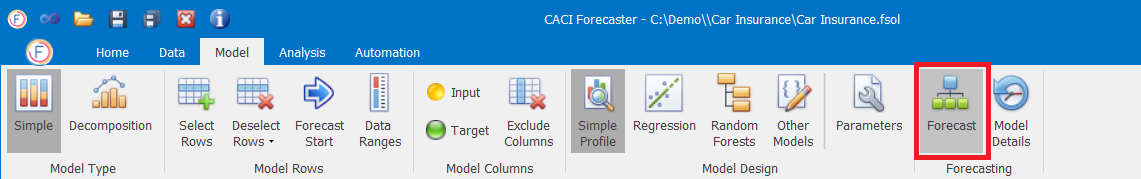
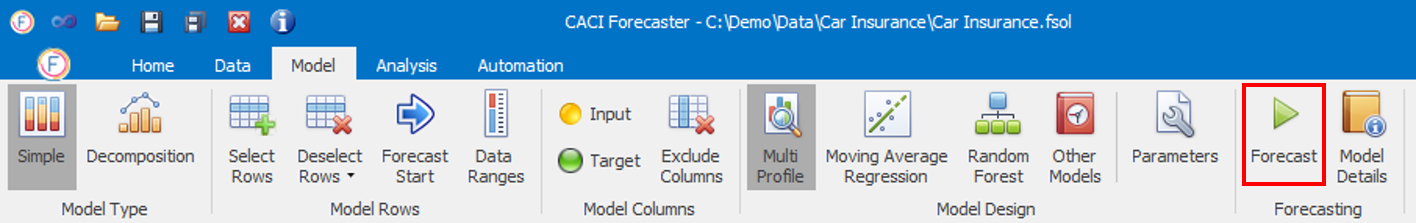
All images updated to latest version

diff --git a/reference/Forecasting/Forecast-Models/Forecast-Models.md b/reference/Forecasting/Forecast-Models/Forecast-Models.md
@@ -7,7 +7,7 @@ The first section to be added to the How To... section will cover the advantages
 For each data type (interval, daily, weekly, etc.), the top 3 models appear on individual buttons under the Model Design section of the Model tab. They can typically be run with default parameters, but the *Parameters* button provides details of the algorithm used, as well as information and control over all parameters. 
 
 {% hint style="info" %}
-As a rule of thumb, for daily data or above it is always worth starting with simple seasonal models with few if any inputs, then moving to more advanced models that learn from inputs as appropriate. Those simple seasonal models are easy to interpret, are robust, and can work very well even when no business drivers are available. To get the absolute best forecasts, however, machines learning models such as Regression or Random Forests are recommended, in order to learn as much as possible from business drivers (inputs). For daily to monthly data, the relevant *Multi Profile Model* is recommended as a first model, moving then to *Moving Average Regression* or *Random Forest* as needed.
+As a rule of thumb, for daily data or above it is always worth starting with simple seasonal models with few if any inputs, then moving to more advanced models that learn from inputs as appropriate. Those simple seasonal models are easy to interpret, are robust, and can work very well even when no business drivers are available. To get the absolute best forecasts, however, machine learning models such as Regression or Random Forests are recommended, in order to learn as much as possible from business drivers (inputs). For daily to monthly data, the relevant *Multi Profile Model* is recommended as a first model, moving then to *Moving Average Regression* or *Random Forest* as needed.
 {% endhint %}
 
 Interval level models are in a separate section below, as these typically work in a different way from daily and above models (although machines learning models such as *Moving Average Regression* or *Random Forest* can sometimes be used to great benefit on interval data, in particular when many business inputs are available).
@@ -50,7 +50,9 @@ These models can typically be applied to any type of data, from interval to mont
 
 
 ## Interval Models
+
 ![Interval Level Ribbon Models](imgs/Ribbon_ModelsInterval.png) 
+
 Forecaster provides a range of models for using on interval level data. This section covers models that are specifically designed for interval data. These models are generally based purely on seasonality, without using additional business drivers. Other models such as Regression or Random Forest can also be used on interval data. Although those other kinds of models are used less frequently on interval data, they can be extremely useful when business drivers are present.
 
 {% hint style="info" %}
@@ -67,6 +69,7 @@ This process will ensure that any daily business drivers are exploited by the da
 ### Allowed intervals
 Any intervals that fit neatly within an hour are allowed (e.g. 12, 15, 30 minute intervals are allowed, 13 minute intervals are not). In addition, for intervals larger than an hour, hourly multiples are also allowed  (e.g. 2h, 3h intervals are allowed, 2h30 intervals are not).
 
+### Interval Models
 - [**Weekly Interval Profile Smoothed**](Weekly-Interval-Profile-Smoothed.md): This is the default interval level model, and will appear as the first button on the model ribbon (as *Smoothed Profile*). This model creates a forecast based on the average value for each interval of the week over the training set. Recent weeks are given more weight than older weeks, and you can also include a percentage of the previous year's values.
 
 - [**Weekly Interval Profile Principal Components**](Weekly-Interval-Profile-Principal-Components.md): Creates forecasts based on a combination of standard weekly profiles (called principal components). Standard weekly profiles are automatically learned from the data, then forecasts are created from a weighted combination of those profiles. This approach should work well for profiles that have consistent changes within the month or within the year.

diff --git a/reference/Forecasting/Model-Type.md b/reference/Forecasting/Model-Type.md
@@ -1,10 +1,10 @@
 # Model Type
 
-Forecaster lets you create two different types of forecast:
+Forecaster lets you create two different types of forecast models:
 
--	Simple model: For using a single forecast model
--	Decomposition model: A combined model, which lets you run two different forecasting methods on different parts of the data.  One particular use for this is to split your data into trend and seasonal components, enabling you to use a different forecasting method on each component before re-combining the two to form the final forecast
+-	**Simple Model**: This is the default, and uses a single model for forecasting
+-	**Decomposition Model**: A more advanced approach, which lets you run two different forecasting methods on different parts of the data.  One particular use for this is to split your data into trend and seasonal components, which lets you use a different forecasting method on each component before re-combining the two to form the final forecast
 
-![Model Types](imgs/ModelType_ModelTypes.png)
+![Model Types](imgs/Ribbon_Model_ModelType.png)
 
 <!-- A separate document describing decomposition models can be obtained by CACI [1]. -->

diff --git a/reference/Forecasting/Model-Rows.md b/reference/Forecasting/Model-Rows.md
@@ -1,5 +1,3 @@
-
-
 # Model Rows
 
 The next step is to define the row on which training data ceases and forecast data starts (this is called the forecast start point).  When developing a time-series model, it is good practice to measure the predictive performance of the model by holding back some of the data.  Typically this is from the most recent period of historical data, since it is more likely that this data is more representative of the future unknown activity.  (This subset of data is is often referred to as the validation set.)
